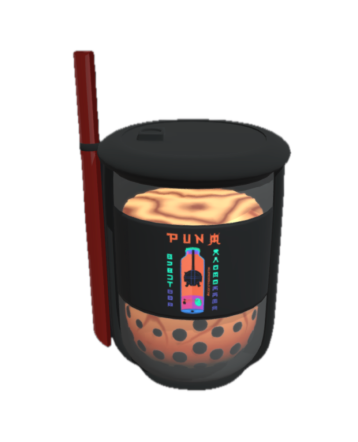
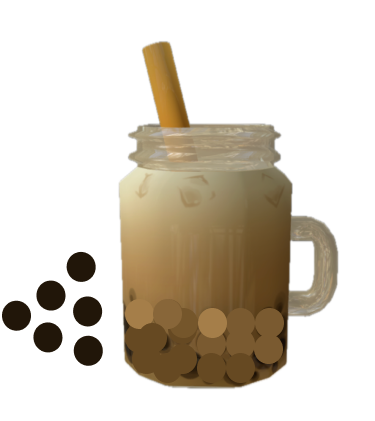
shake interaction

diff --git a/Assets/Scripts/UI/ImageShakeResponse.cs b/Assets/Scripts/UI/ImageShakeResponse.cs
@@ -1,0 +1,75 @@
+using UnityEngine;
+using UnityEngine.UI;
+using UnityEngine.EventSystems;
+using System.Collections.Generic;
+public class ImageShakeResponse : MonoBehaviour
+{
+    public Image placeholderImage; // Assign the placeholder Image in the Inspector
+    public GameObject uiImage1;    // Assign the UI image GameObject that prompts the user to shake
+    public Sprite newBoba;
+    private ShakeDetector shakeDetector;
+    public Image deliverButton;
+    public Sprite deliveredTexture;
+    public Sprite greyTexture;
+
+    void Start()
+    {
+        // Get the ShakeDetector component from the gameObject
+        shakeDetector = gameObject.GetComponent<ShakeDetector>();
+
+        // Initially hide the shake prompt UI
+        uiImage1.SetActive(false);
+
+        // Check the current sprite name
+        // CheckSpriteAndUpdateUI();
+    }
+
+    void Update()
+    {
+
+
+        if (placeholderImage.sprite.name == "boba-sized")
+        {
+            // Show the UI that prompts the user to shake the phone
+            Debug.Log("Shaked!");
+            uiImage1.SetActive(true);
+            deliverButton.sprite = greyTexture;
+            if (shakeDetector != null && shakeDetector.IsShakeDetected)
+            {
+                // After a shake is detected
+                ShakeResponse();
+            }
+            }
+            else{
+                Debug.Log("not detected!");
+            }
+    }
+
+    // private void CheckSpriteAndUpdateUI()
+    // {
+    //     Check if the placeholder's sprite is the specific one that requires shake
+    //     if (placeholderImage.sprite.name == "boba-sized")
+    //     {
+    //         // Show the UI that prompts the user to shake the phone
+    //         Debug.Log("Shaked!");
+    //         uiImage1.SetActive(true);
+    //     }
+    //     else{
+    //         Debug.Log("not detected!");
+    //     }
+    // }
+
+    private void ShakeResponse()
+    {
+        // Change the sprite to the next one
+        placeholderImage.sprite = newBoba;
+
+        // Hide the UI image
+        uiImage1.SetActive(false);
+        Handheld.Vibrate();
+        deliverButton.sprite = deliveredTexture;
+
+        // Reset shake detection (optional, depends on how the ShakeDetector is implemented)
+        shakeDetector.ResetShakeDetection();
+    }
+}

diff --git a/Assets/Scripts/UI/ShakeDetector.cs b/Assets/Scripts/UI/ShakeDetector.cs
@@ -1,0 +1,51 @@
+using UnityEngine;
+
+public class ShakeDetector : MonoBehaviour
+{
+    public float shakeDetectionThreshold = 2.0f; // Sensitivity for detecting a shake
+    public float shakeCooldownTime = 2.0f;       // Cooldown time between shakes
+
+    private float timeSinceLastShake = 0.0f;
+    private Vector3 acceleration;
+    private Vector3 lastAcceleration;
+
+    // Property to check if a shake is detected
+    public bool IsShakeDetected { get; private set; }
+
+    void Start()
+    {
+        // Initialize acceleration with the current device acceleration
+        acceleration = Input.acceleration;
+        lastAcceleration = acceleration;
+        IsShakeDetected = false;
+    }
+
+    void Update()
+    {
+        timeSinceLastShake += Time.deltaTime;
+
+        // Update current and last accelerations
+        lastAcceleration = acceleration;
+        acceleration = Input.acceleration;
+
+        // Calculate the change in acceleration
+        Vector3 deltaAcceleration = acceleration - lastAcceleration;
+
+        if (deltaAcceleration.sqrMagnitude >= shakeDetectionThreshold && timeSinceLastShake >= shakeCooldownTime)
+        {
+            IsShakeDetected = true;
+            timeSinceLastShake = 0.0f;
+        }
+        else
+        {
+            // Optionally, automatically reset shake detection state
+            IsShakeDetected = false;
+        }
+    }
+
+    // Method to manually reset the shake detection
+    public void ResetShakeDetection()
+    {
+        IsShakeDetected = false;
+    }
+}

diff --git a/Assets/Scripts/UI/DragDropController.cs b/Assets/Scripts/UI/DragDropController.cs
@@ -34,7 +34,7 @@ public class DragDropController : MonoBehaviour
         uiButtonsLayer = LayerMask.NameToLayer("UIButtons");
     }
 
-   
+
 
     void Update()
     {
@@ -159,9 +159,9 @@ public class DragDropController : MonoBehaviour
             float widthFactor = screenWidth / DisplayedImage.rect.width;
             float heightFactor = screenHeight / DisplayedImage.rect.height;
             float scaleFactor = Mathf.Min(widthFactor, heightFactor);
-            Debug.Log("Scale Factor: " + scaleFactor);
-            Debug.Log("Screen Width: " + screenWidth);
-            Debug.Log("Screen Height: " + screenHeight);
+            // Debug.Log("Scale Factor: " + scaleFactor);
+            // Debug.Log("Screen Width: " + screenWidth);
+            // Debug.Log("Screen Height: " + screenHeight);
 
             // Adjust placeholder image size while maintaining aspect ratio
             float adjustedWidth = DisplayedImage.rect.width / scaleFactor;
